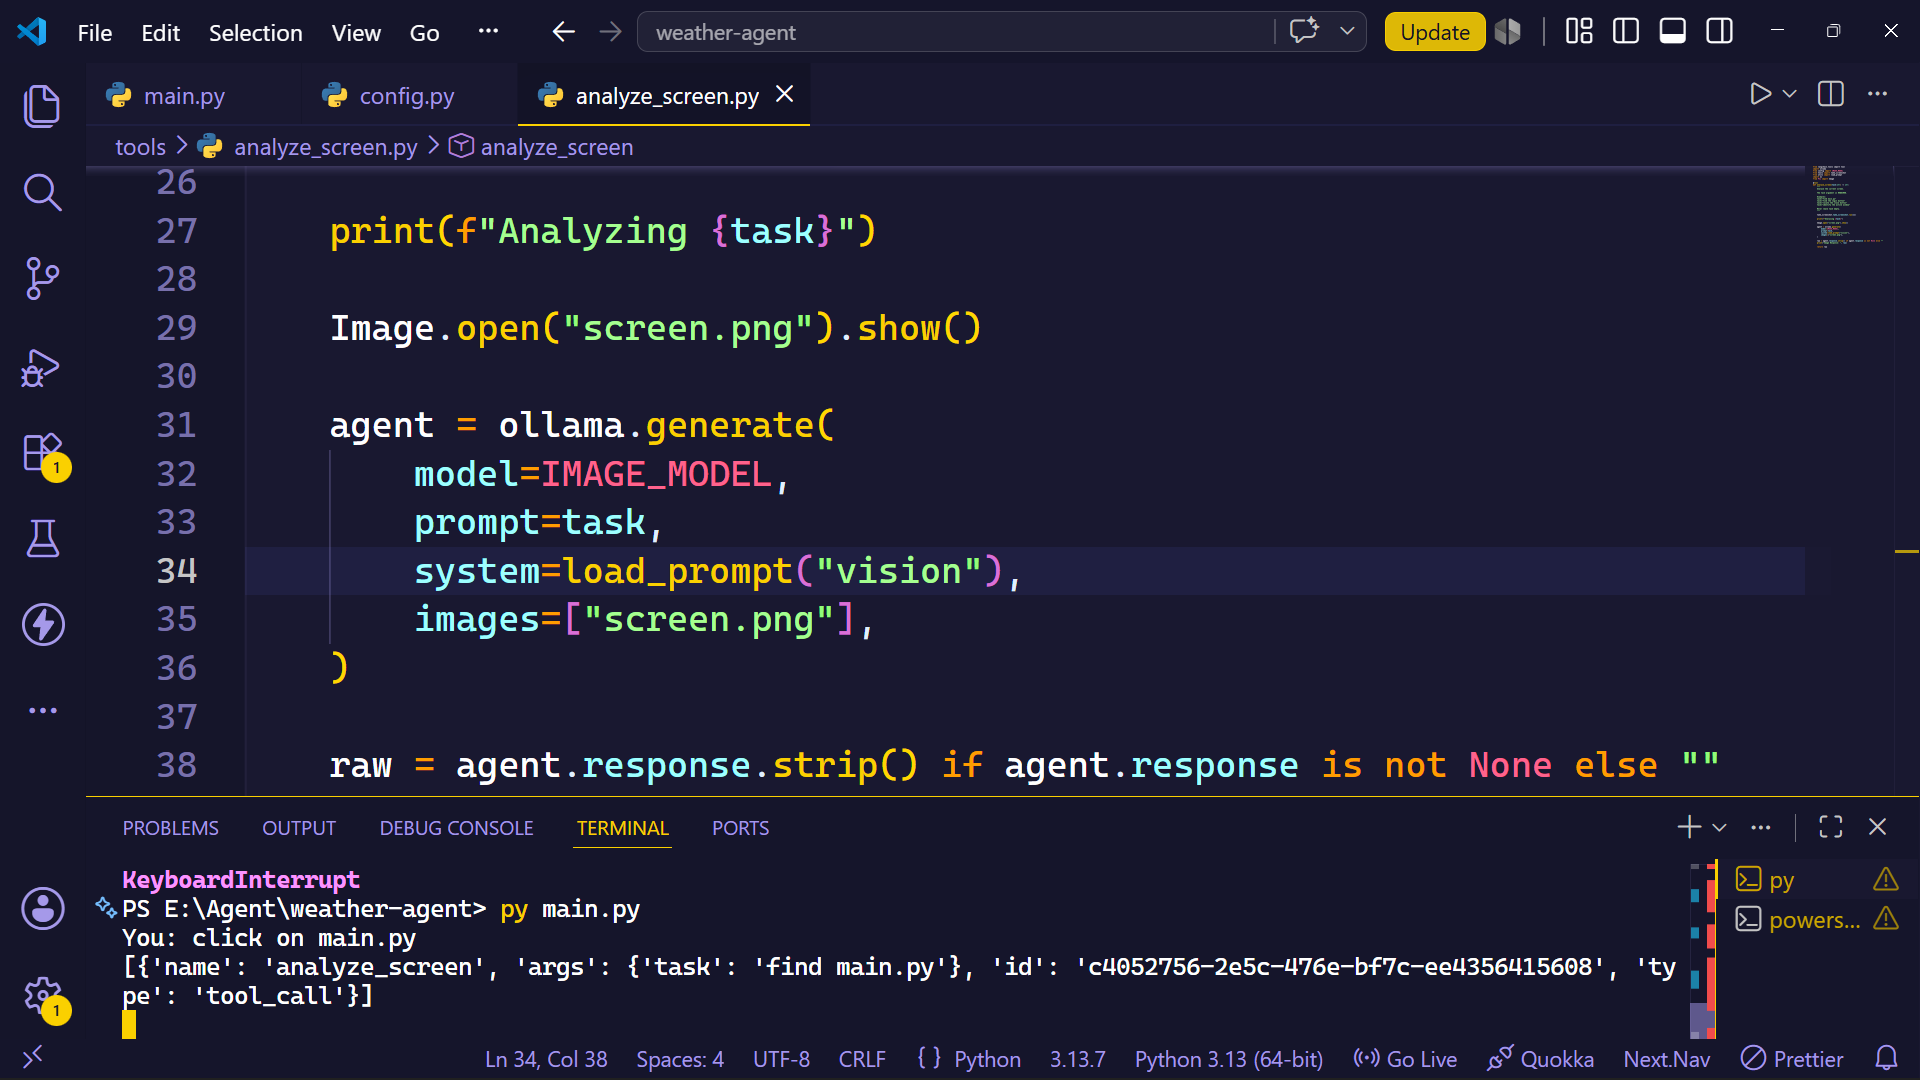
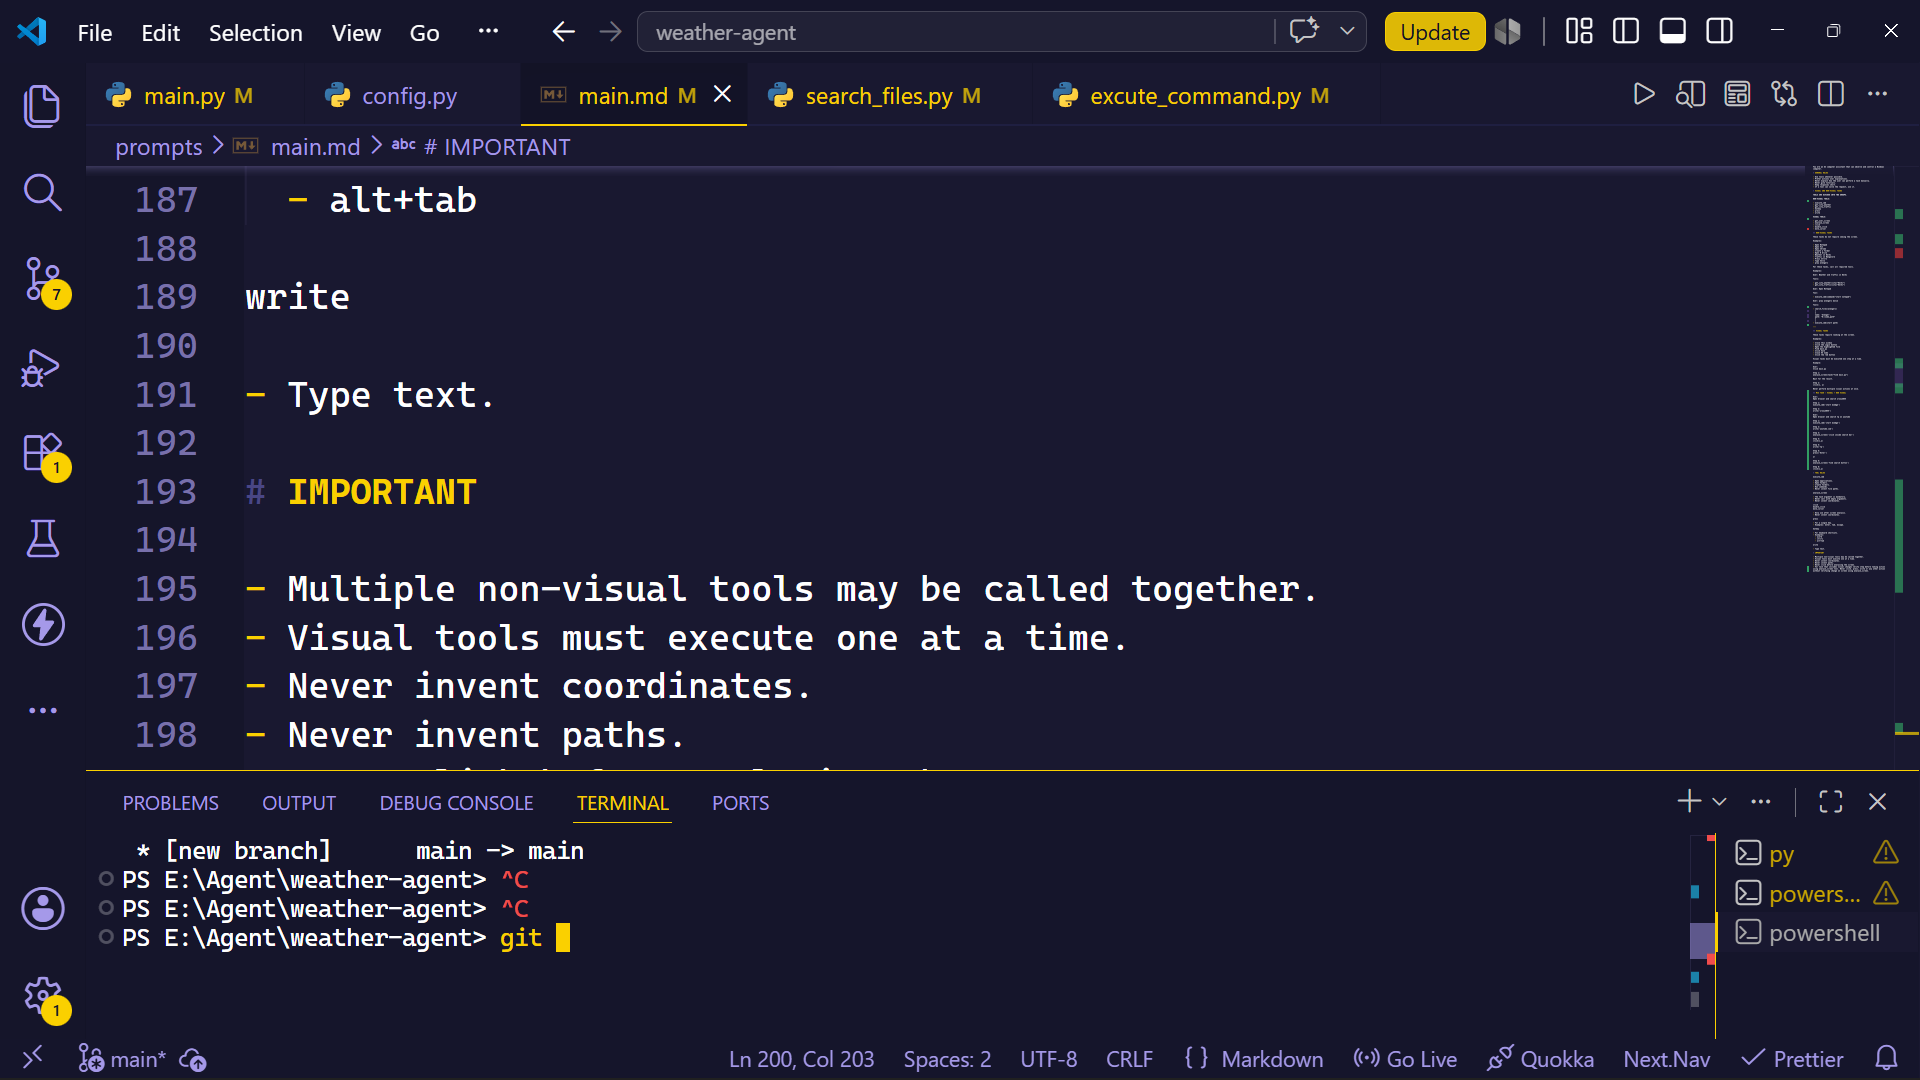
ADD add mix tool

diff --git a/main.py b/main.py
@@ -1,5 +1,11 @@
 from langchain_ollama import ChatOllama
-from langchain_core.messages import HumanMessage, SystemMessage
+from langchain_core.messages import (
+    HumanMessage,
+    SystemMessage,
+    AIMessage,
+    ToolMessage,
+)
+
 from config import MODEL, TEMPERATURE
 from tool_loader import load_tools
 from utils import load_prompt
@@ -7,58 +13,51 @@ from utils import load_prompt
 tools_list = load_tools()
 tool_map = {tool.name: tool for tool in tools_list}
 
-llm = ChatOllama(model=MODEL, temperature=TEMPERATURE)
+llm = ChatOllama(
+    model=MODEL,
+    temperature=TEMPERATURE,
+)
+
 llm_with_tools = llm.bind_tools(tools_list)
 
-VISION_TOOLS = ["analyze_screen", "click", "double_click", "move_cursor"]
-
 while True:
-    question = input("You: ")
-    # question = listen()
 
-    if question.lower() in ["quit", "exit", "stop"]:
+    question = input("You: ")
+
+    if question.lower() in ["exit", "quit"]:
         break
 
-    response = llm_with_tools.invoke(
-        [SystemMessage(content=load_prompt("main")), HumanMessage(content=question)]
-    )
+    messages = [
+        SystemMessage(content=load_prompt("main")),
+        HumanMessage(content=question),
+    ]
 
-    if response.tool_calls:
+    while True:
+
+        response = llm_with_tools.invoke(messages)
+
+        messages.append(response)
+
+        if not response.tool_calls:
+            print("Agent:", response.content)
+            break
+
         print(response.tool_calls)
 
-        responses = []
-        # Execute only one visual tool
-        if response.tool_calls[0]["name"] in VISION_TOOLS:
-            tool_name = response.tool_calls[0]["name"]
-            tool_args = response.tool_calls[0]["args"]
+        for tool_call in response.tool_calls:
 
-            tool_response = tool_map[tool_name].invoke(tool_args)
-            responses.append(tool_response)
+            tool_name = tool_call["name"]
+            tool_args = tool_call["args"]
 
-            # Execute all non-visual tools
-        else:
-            for tool in response.tool_calls:
-                tool_name = tool["name"]
-                tool_args = tool["args"]
+            print(f"\nRunning {tool_name}...")
 
-                tool_response = tool_map[tool_name].invoke(tool_args)
-                responses.append(tool_response)
+            tool_result = tool_map[tool_name].invoke(tool_args)
 
-        final_response = llm.invoke(
-            [
-                SystemMessage(content="""
-                    You are an AI assistant.
-                    Answer using the tool results only.
-                    Keep responses short and natural.
-                    Do not invent information.
-                    """),
-                HumanMessage(content=f"""
-                    user question: {question},
-                    Tool Result: {responses}
-                    """),
-            ]
-        )
-        # speak(final_response.content)
-        print("Agent: ", final_response.content)
-    else:
-        print("Agent: ", response.content)
+            print(tool_result)
+
+            messages.append(
+                ToolMessage(
+                    content=str(tool_result),
+                    tool_call_id=tool_call["id"],
+                )
+            )

diff --git a/tools/excute_command.py b/tools/excute_command.py
@@ -15,22 +15,25 @@ def is_safe(command: str):
 @tool
 def execute_cmd(command: str) -> str:
     """
-    Execute safe Windows CMD commands.
-
-    Use for:
-    - opening applications
-    - opening folders
-    - creating folders
-    - launching programs
+    Execute Windows CMD or PowerShell commands.
 
     Examples:
-    - start notepad
-    - start chrome
-    - mkdir Test
-    - explorer D:\\
+    - Open a file:
+        start "" "C:\\Movies\\movie.mkv"
 
-    Do not use for keyboard shortcuts.
-    Do not invent file paths.
+    - Open a folder:
+        explorer "C:\\Users\\Urooj\\Downloads"
+
+    - Open Chrome:
+        start chrome
+
+    - Launch Notepad:
+        start notepad
+
+    - Open a URL:
+        start https://youtube.com
+
+    Use this tool whenever the user's goal is to launch, open, play, or execute something.
     """
 
     try:

diff --git a/tools/search_files.py b/tools/search_files.py
@@ -21,16 +21,24 @@ def search_files(
     max_results: int = 10,
 ):
     """
-    Search the computer for files.
+    Finds matching files.
 
-    Args:
-        filename: Partial or full filename.
-        extension: Optional extension like '.pdf', '.txt', '.py'
-        max_results: Maximum number of results.
+    This tool ONLY returns file paths.
 
-    Returns:
-        List of matching files.
+    It DOES NOT open, play, edit or execute files.
+
+    If the user's intent is to open or play a file,
+    another tool should be called afterwards.
     """
+
+    # results = [
+    #     {
+    #         "name": "Avengers",
+    #         "path": "D:\\Movie\\The.Avengers.(2012).1080p.Hindi.English.MoviesVerse.in.mkv",
+    #     }
+    # ]
+
+    # return results
 
     filename = filename.lower()
 
@@ -83,4 +91,3 @@ def search_files(
                     return results
 
     return results
-

diff --git a/prompts/main.md b/prompts/main.md
@@ -14,6 +14,7 @@ You are an AI computer assistant that can observe and control a Windows computer
 TOOLS ARE DIVIDED INTO TWO GROUPS.
 
 NON-VISUAL TOOLS:
+
 - execute_cmd
 - get_city_weather
 - get_city_traffic
@@ -22,12 +23,12 @@ NON-VISUAL TOOLS:
 - write
 
 VISUAL TOOLS:
+
 - get_user_screen
 - analyze_screen
 - click
 - double_click
 - move_cursor
-
 
 ## NON-VISUAL TASKS
 
@@ -66,14 +67,16 @@ Tool:
 User: play avengers movie
 
 Tools:
+
 - search_files(avengers)
-[
+  [
   {
-    name: 'Avenger',
-    path: "D:\some_path"
+  name: 'Avenger',
+  path: "D:\some_path"
   }
-]
+  ]
 - execute_cmd(start path)
+
 ---
 
 ## VISUAL TASKS
@@ -106,6 +109,46 @@ Step 2:
 click(x, y)
 
 Never perform multiple visual actions at once.
+
+## MIX TASK - VISUAL + NON VISUAL
+
+User:
+Open browser and search uroojk844
+
+Step 1:
+execute_cmd('start msedge')
+
+Step 2:
+write('uroojk844')
+
+User:
+Open browser and search tp on youtube
+
+Step 1:
+execute_cmd('start msedge')
+
+Step 2:
+write('youtube.com')
+
+Step 3:
+analyze_screen('click inside search bar')
+
+Step 4:
+click(x,y)
+
+Step 4:
+write('tp')
+
+Step 5:
+press('Enter')
+
+or
+
+Step 5:
+analyze_screen('find search button')
+
+Step 6:
+click(x,y)
 
 # TOOL RULES
 
@@ -154,3 +197,4 @@ write
 - Never invent coordinates.
 - Never invent paths.
 - Never click before analyzing the screen.
+- For task that includes visual changes verify step before taking action using analyze_screen tool. Never click, press, write or any other action without verifying change on screen using analyze_screen.